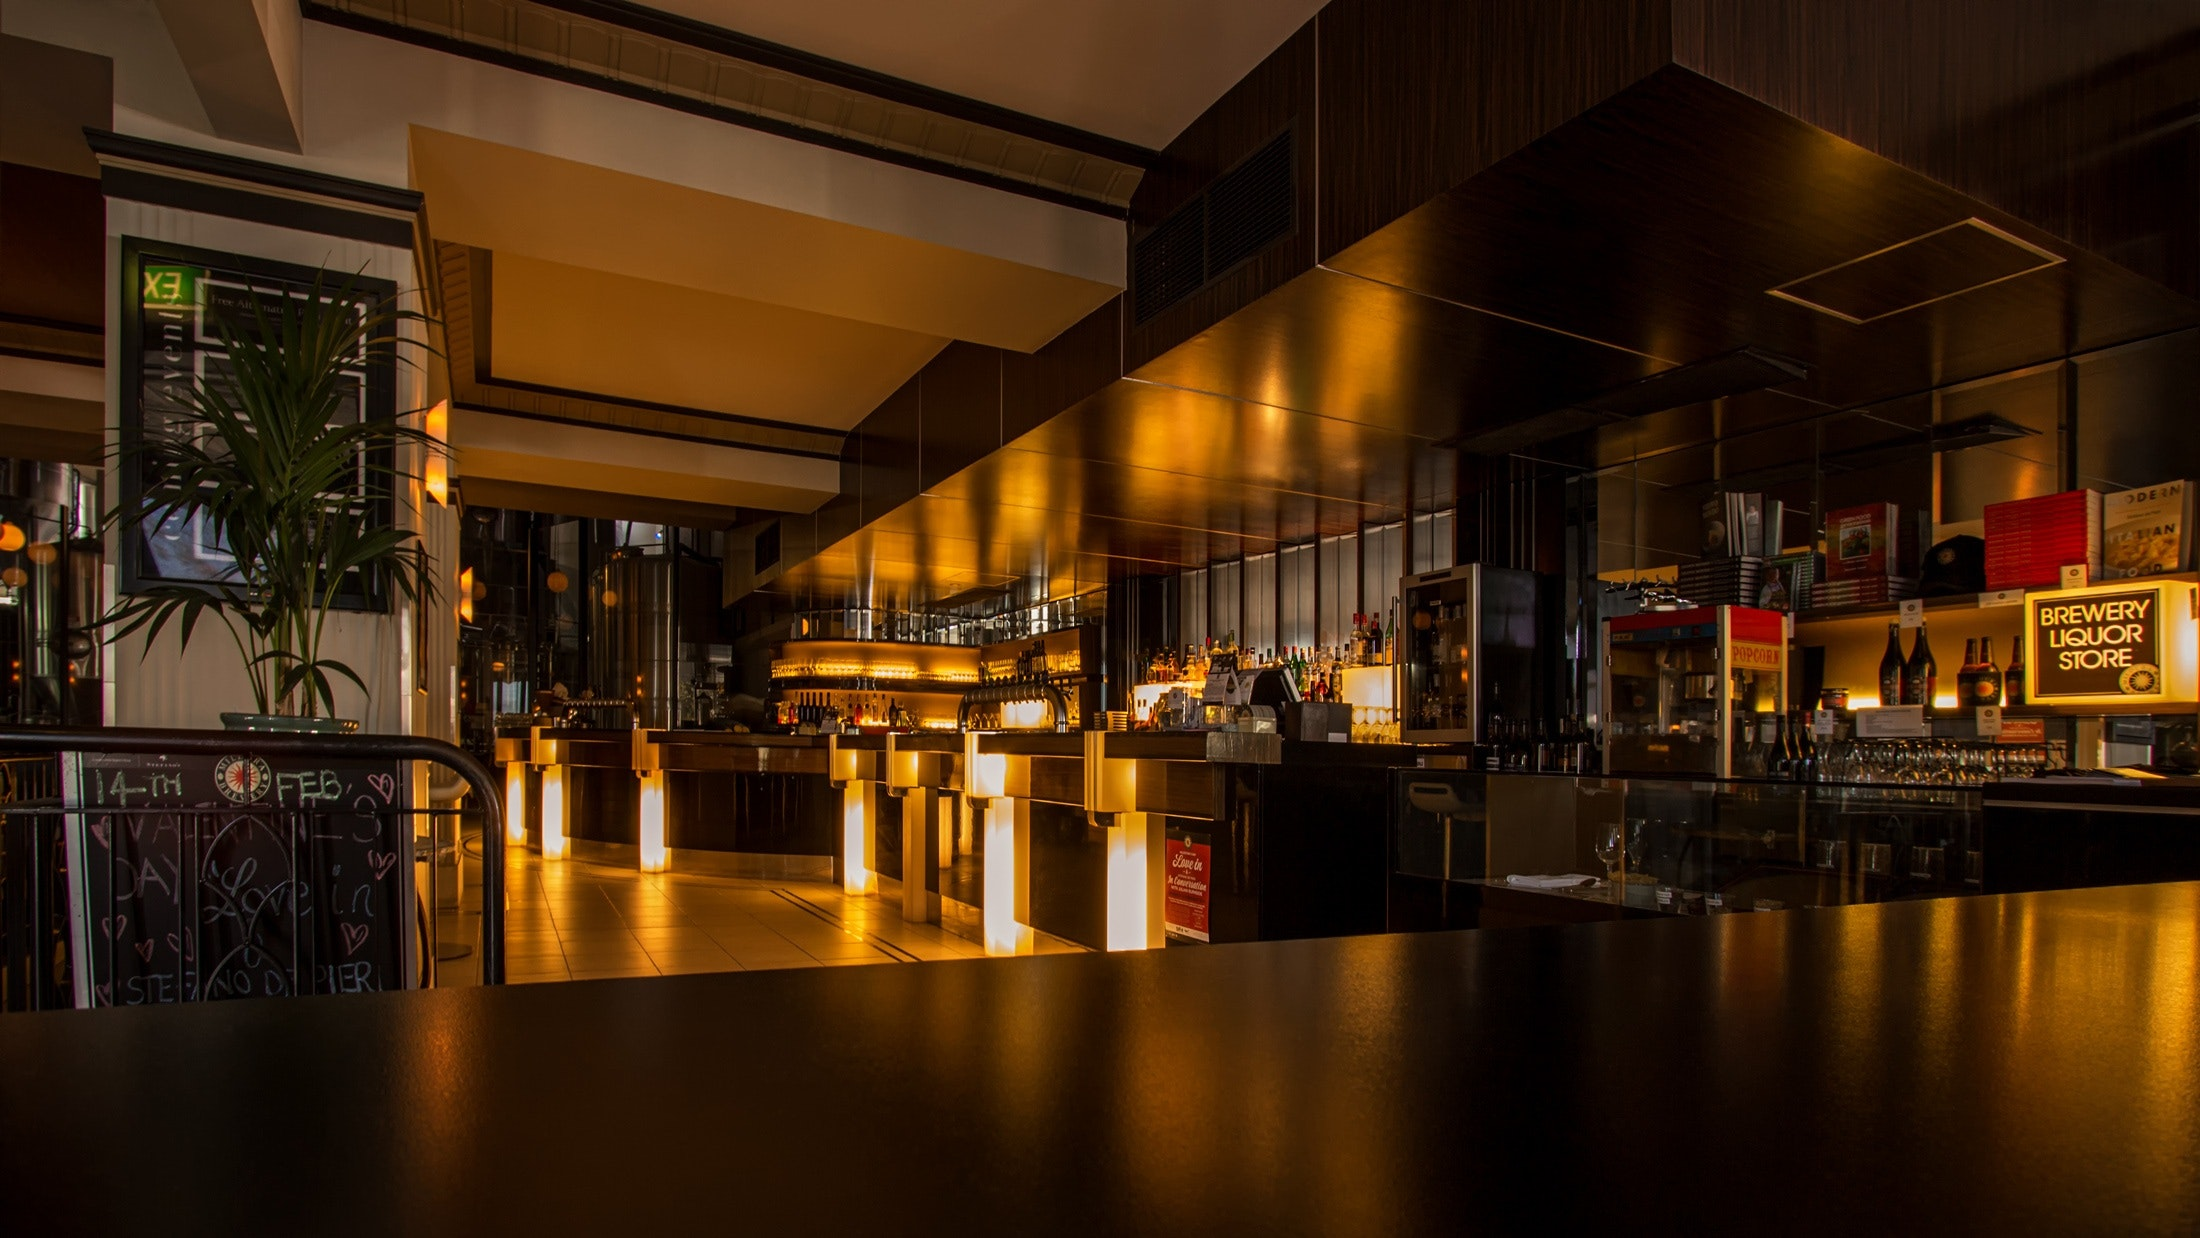
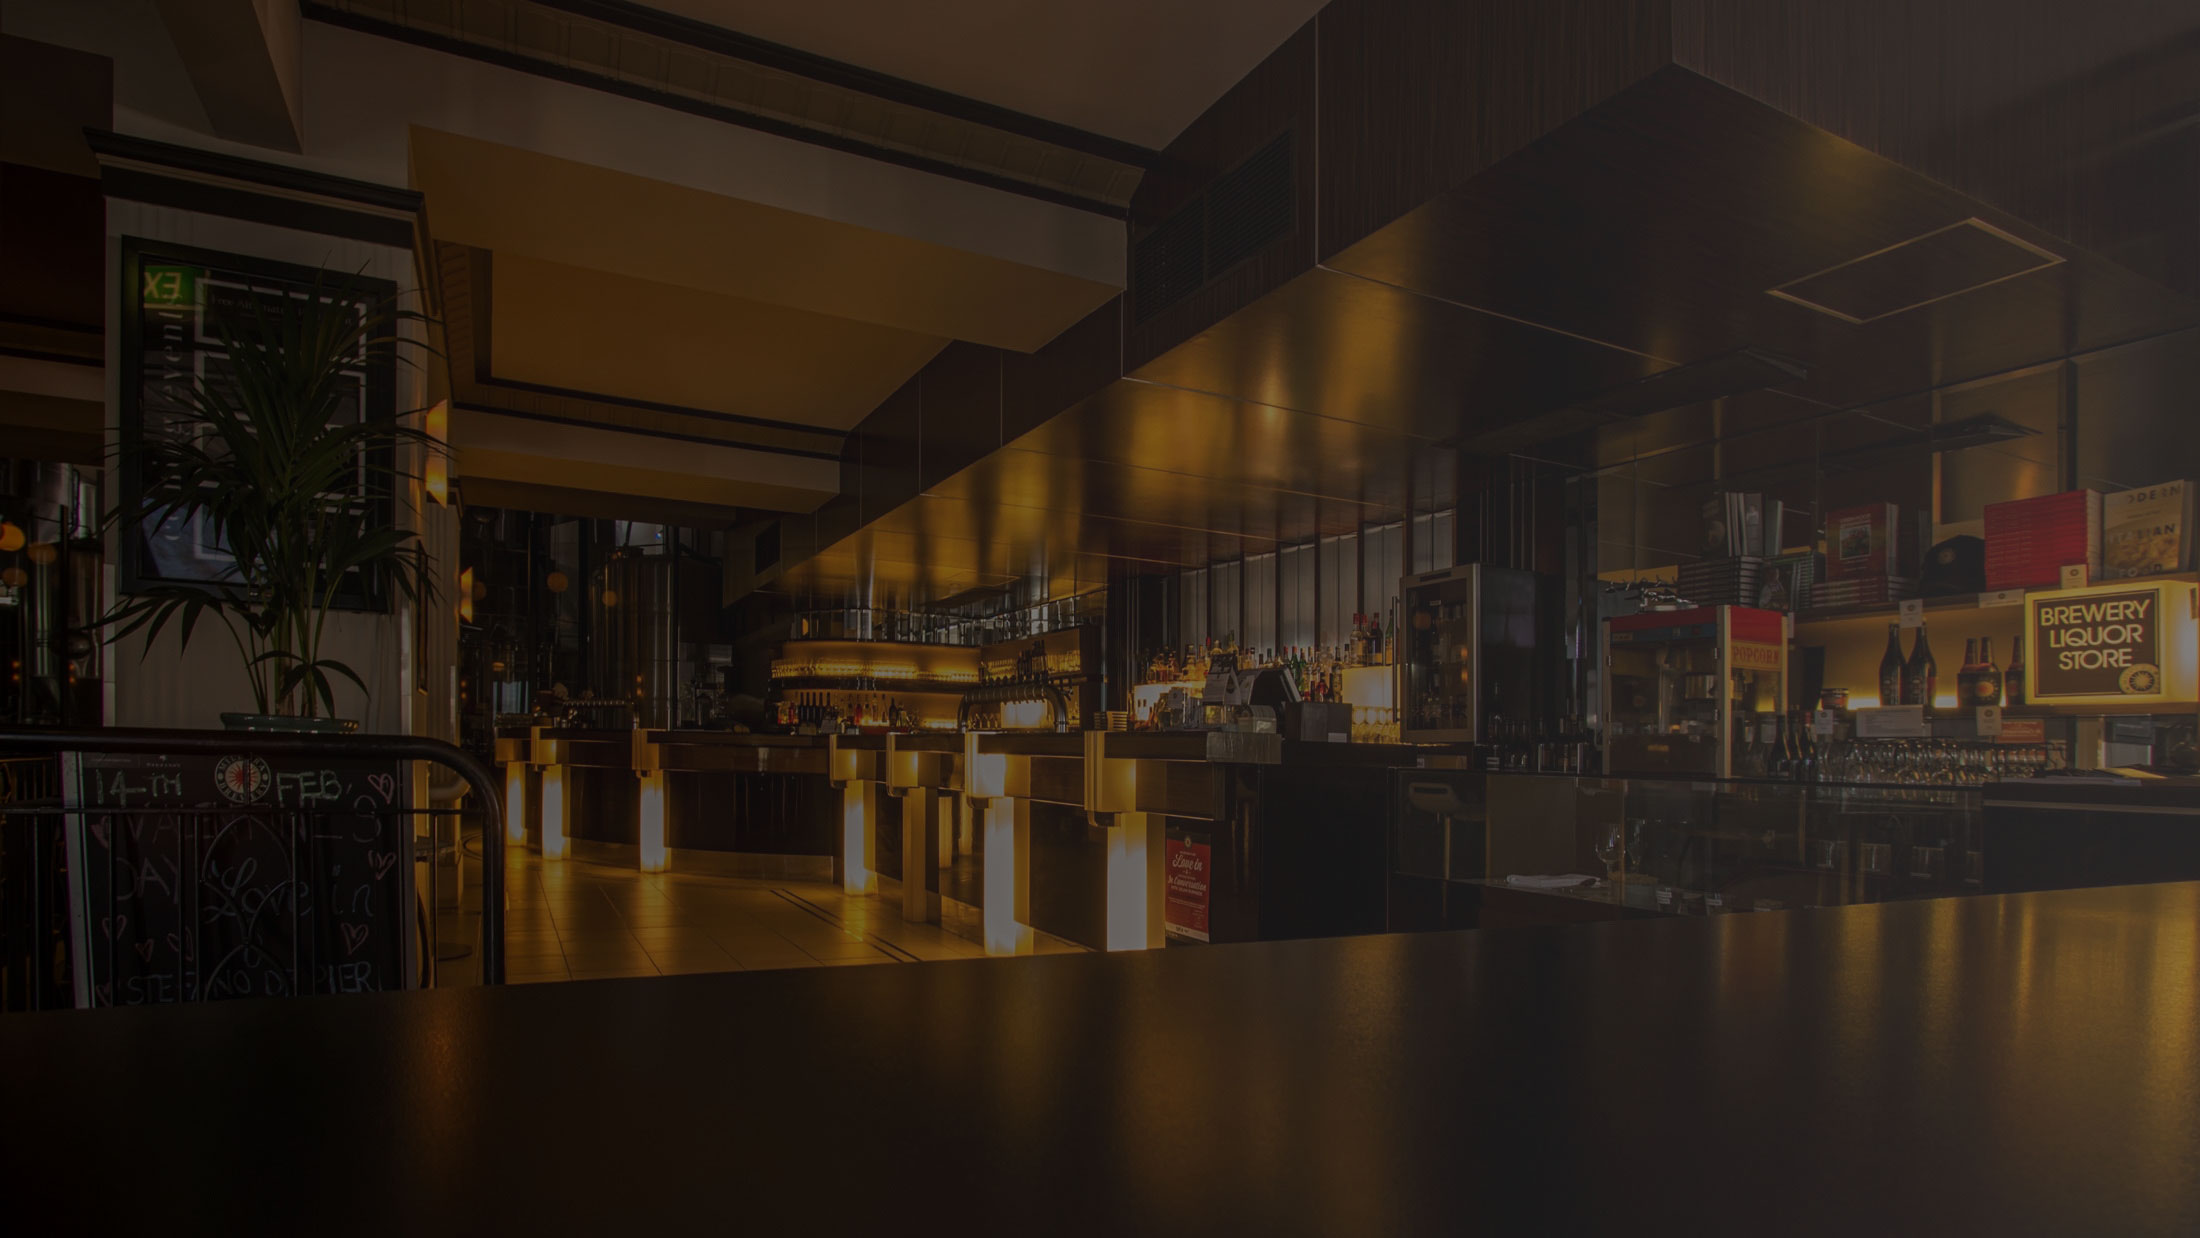
Finished Project

diff --git a/index.html b/index.html
@@ -10,27 +10,40 @@
 <body>
     
     <section id="top">
-        
+     <div class="container flex">
+
+        <div class="half-width top-div center-flex">
+        <h1 class="bigtext orange"><span class="line">Foodanga Restora </span> <br>
+     Healthy And Good Food</h1></div>
+     <div class="half-width top-div center-flex"><a class="button" href="">Order Online</a></div>
+     </div>
     </section>
     <section id="middle">
+        <div class="container flex">
+            <div class="half-width center-flex">
+                <h1 class="healthy"><span class="line"> Healthy</span> Food Is  <span class="orange"><br> Greater Than </span> <span class=" line">Tasty </span>Foods</h1>
+            </div>
 
+            <div class="half-width"><img src="./images/big 4.jpg" alt=""></div>
+        </div>
     </section>
 
 <section id="last" >
-    <h1 style="text-align: center; margin-top: 3%;">My Recipies</h1>
+    <h1  >My Recipies</h1>
+    <p>Find and share everyday cooking inspiration on Allrecipes. Discover recipes, cooks, videos, and how-tos based on the food you love and the friends you follow</p>
     <div class="container flex">
  <div class="even-width">
      <div class="item"> <img src="./images/photo1.png" alt=""><h2 >Healthy Foods </h2> <br>
-        <p>Lorem ipsum dolor sit amet consectetur.</p> </div>
+        <p>A snack is a small portion of food generally eaten between meals.</p> </div>
  </div>
  <div class="even-width">
      <div class="item"><img src="./images/photo2.jpg" alt=""><h2 >Special Menu</h2> <br>
-        <p>Lorem ipsum dolor sit amet consectetur.</p></div>
+        <p>Fast food is a type of mass-produced food designed for commercial resale and with a strong priority placed on "speed of service"</p></div>
  </div>
  <div class="even-width">
      
      <div class="item"><img src="./images/photo3.jpg" alt=""><br><h2 >Finest Desserts </h2> <br>
-    <p>Lorem ipsum dolor sit amet consectetur.</p></div>
+    <p>Dessert is a course that concludes a meal. The course consists of sweet foods, such as confections, and possibly a beverage such as dessert wine and liqueur</p></div>
  </div>
 
 

diff --git a/style.css b/style.css
@@ -12,7 +12,11 @@ img{
 .orange{
     color: orange;
 }
-
+.center-flex{
+    display: flex;
+    justify-content: center;
+    align-items: center;
+}
 .flex{
     display: flex;
 }
@@ -30,13 +34,61 @@ img{
     text-align: center;
 }
 
+.top-div{
+    height: 80vh;
+}
+.line{
+    border-bottom: 4px solid orange;
+}
+.healthy{
+    font-size: 40px;
+    text-align: center;
+}
+
+#top{
+    width: 100%;
+    height: 80vh;
+    background: url(./images/big1.jpg);
+}
+
+.bigtext{
+    padding: 20px;
+    font-size: 50px;
+    text-align:center;
+    
+}
+.button{
+    font-weight: 700;
+    font-size: 22px;
+    text-decoration: none;
+    color: #000;
+    background: orange;
+    padding: 3%;
+    border-radius: 12px ;
+}
+/* ------------------------------------last Section */
+#last{
+    background: rgb(233, 233, 233);
+}
+#last>h1{
+    
+    text-align: center; 
+     padding: 20px;
+    font-size: 34px;
+    color: rgb(48, 48, 48);
+}
+#last>p{
+    padding: 12px;
+    font-size: 19px;
+    text-align: center;
+}
 .count{
     border-radius: 20px;
     align-items: center;
     justify-content: space-evenly;
-    margin: 2%;
+    margin: 4%;
     padding: 4%;
-    box-shadow: 5px  3px 5px 3px #000;
+    box-shadow: 5px  3px 5px 3px rgb(48, 48, 48);
 }
 .countitem>h2{
     font-size: 29px;
